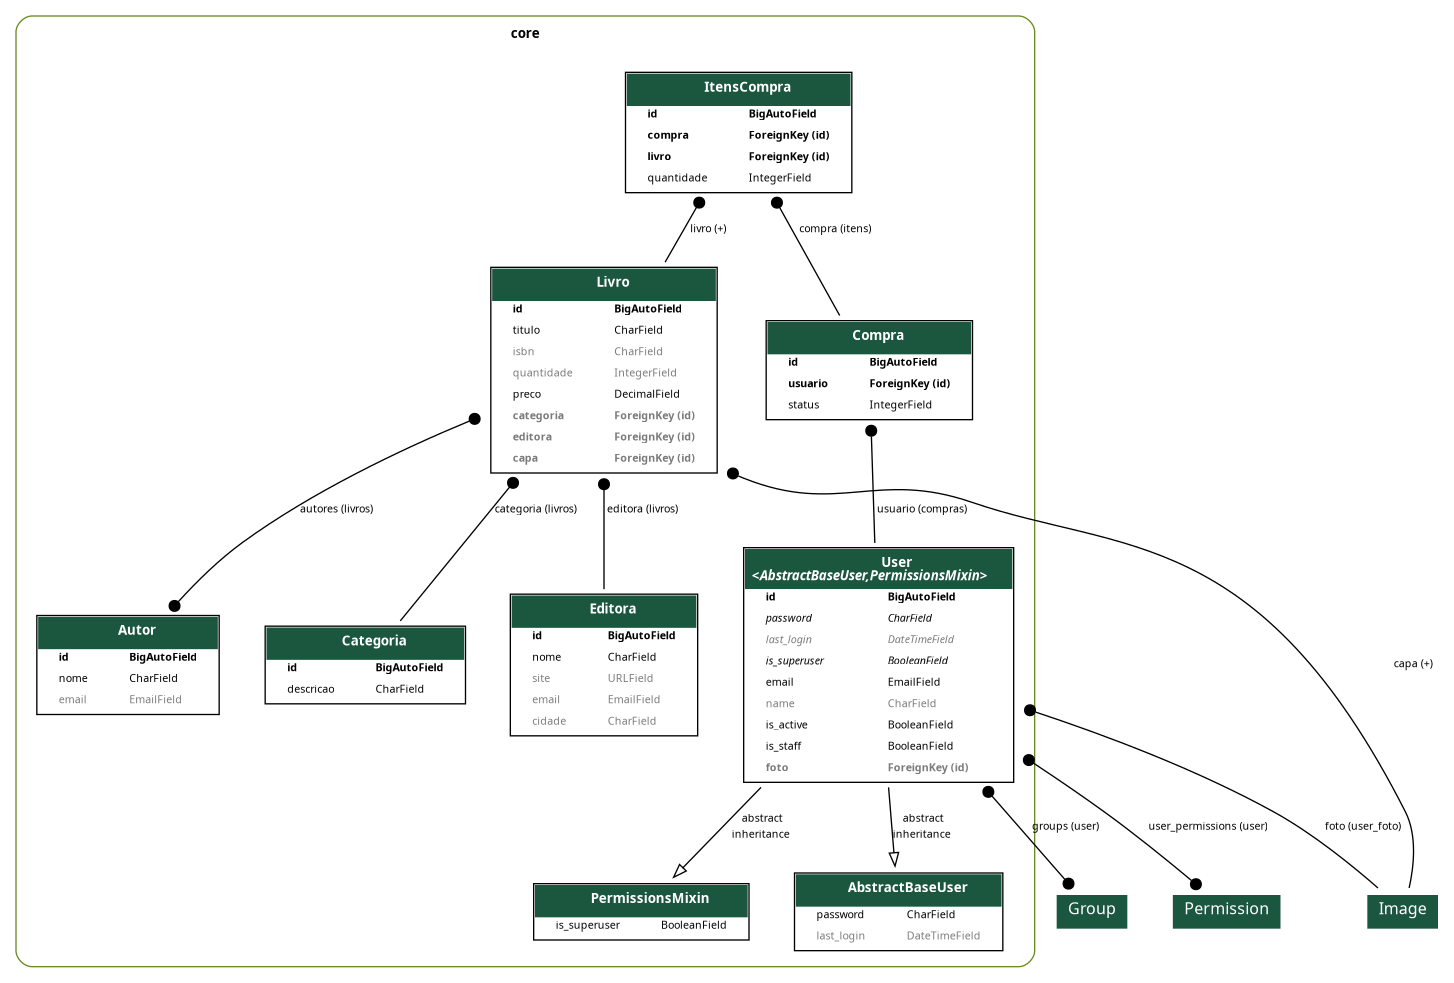
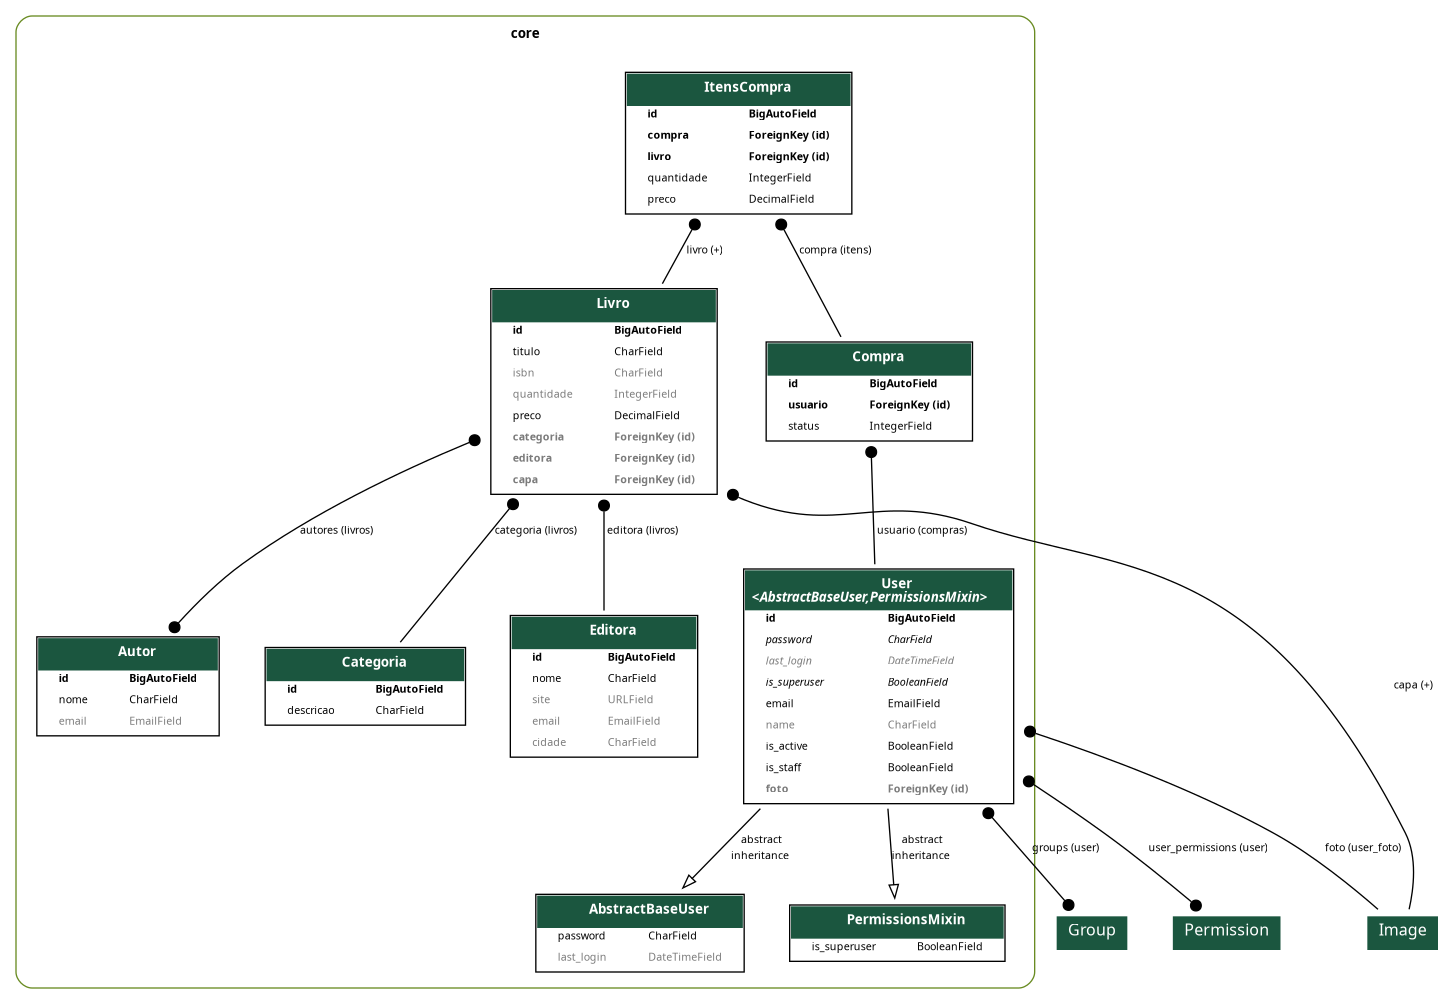
feat: (32) Gravação do preço do livro no item da compra

diff --git a/core/serializers/compra.py b/core/serializers/compra.py
@@ -19,7 +19,7 @@ from core.models import Compra, ItensCompra
 class ItensCompraCreateUpdateSerializer(ModelSerializer):
     class Meta:
         model = ItensCompra
-        fields = ('livro', 'quantidade')
+        fields = ('livro', 'quantidade', 'preco')
 
     def validate_quantidade(self, quantidade):
         if quantidade <= 0:
@@ -37,24 +37,19 @@ class ItensCompraListSerializer(ModelSerializer):
 
     class Meta:
         model = ItensCompra
-        fields = ('quantidade', 'livro')
+        fields = ('livro', 'quantidade', 'preco')
 
 
 class ItensCompraSerializer(ModelSerializer):
     titulo = CharField(source='livro.titulo', read_only=True)
     editora = CharField(source='livro.editora.nome', read_only=True)
-    preco = DecimalField(
-        source='livro.preco',
-        max_digits=7,
-        decimal_places=2,
-        read_only=True,
-    )
+
     capa = CharField(source='livro.capa.url', read_only=True)
 
     total = SerializerMethodField()
 
     def get_total(self, item):
-        return item.livro.preco * item.quantidade
+        return item.preco * item.quantidade
 
     class Meta:
         model = ItensCompra
@@ -78,6 +73,7 @@ class CompraCreateUpdateSerializer(ModelSerializer):
         itens = validated_data.pop('itens')
         compra = Compra.objects.create(**validated_data)
         for item in itens:
+            item['preco'] = item['livro'].preco
             ItensCompra.objects.create(compra=compra, **item)
         return compra
 
@@ -87,6 +83,7 @@ class CompraCreateUpdateSerializer(ModelSerializer):
         if itens is not None:
             compra.itens.all().delete()
             for item in itens:
+                item['preco'] = item['livro'].preco
                 ItensCompra.objects.create(compra=compra, **item)
         return super().update(compra, validated_data)
 

diff --git a/core/models/compra.py b/core/models/compra.py
@@ -16,10 +16,11 @@ class Compra(models.Model):
 
     @property
     def total(self):
-        return sum(item.livro.preco * item.quantidade for item in self.itens.all())
+        return sum(item.preco * item.quantidade for item in self.itens.all())
 
 
 class ItensCompra(models.Model):
     compra = models.ForeignKey(Compra, on_delete=models.CASCADE, related_name='itens')
     livro = models.ForeignKey(Livro, on_delete=models.PROTECT, related_name='+')
     quantidade = models.IntegerField(default=1)
+    preco = models.DecimalField(max_digits=7, decimal_places=2, default=0)

diff --git a/core/migrations/0016_itenscompra_preco.py b/core/migrations/0016_itenscompra_preco.py
@@ -1,0 +1,18 @@
+# Generated by Django 5.2.13 on 2026-09-10 14:09
+
+from django.db import migrations, models
+
+
+class Migration(migrations.Migration):
+
+    dependencies = [
+        ('core', '0015_itenscompra'),
+    ]
+
+    operations = [
+        migrations.AddField(
+            model_name='itenscompra',
+            name='preco',
+            field=models.DecimalField(decimal_places=2, default=0, max_digits=7),
+        ),
+    ]
